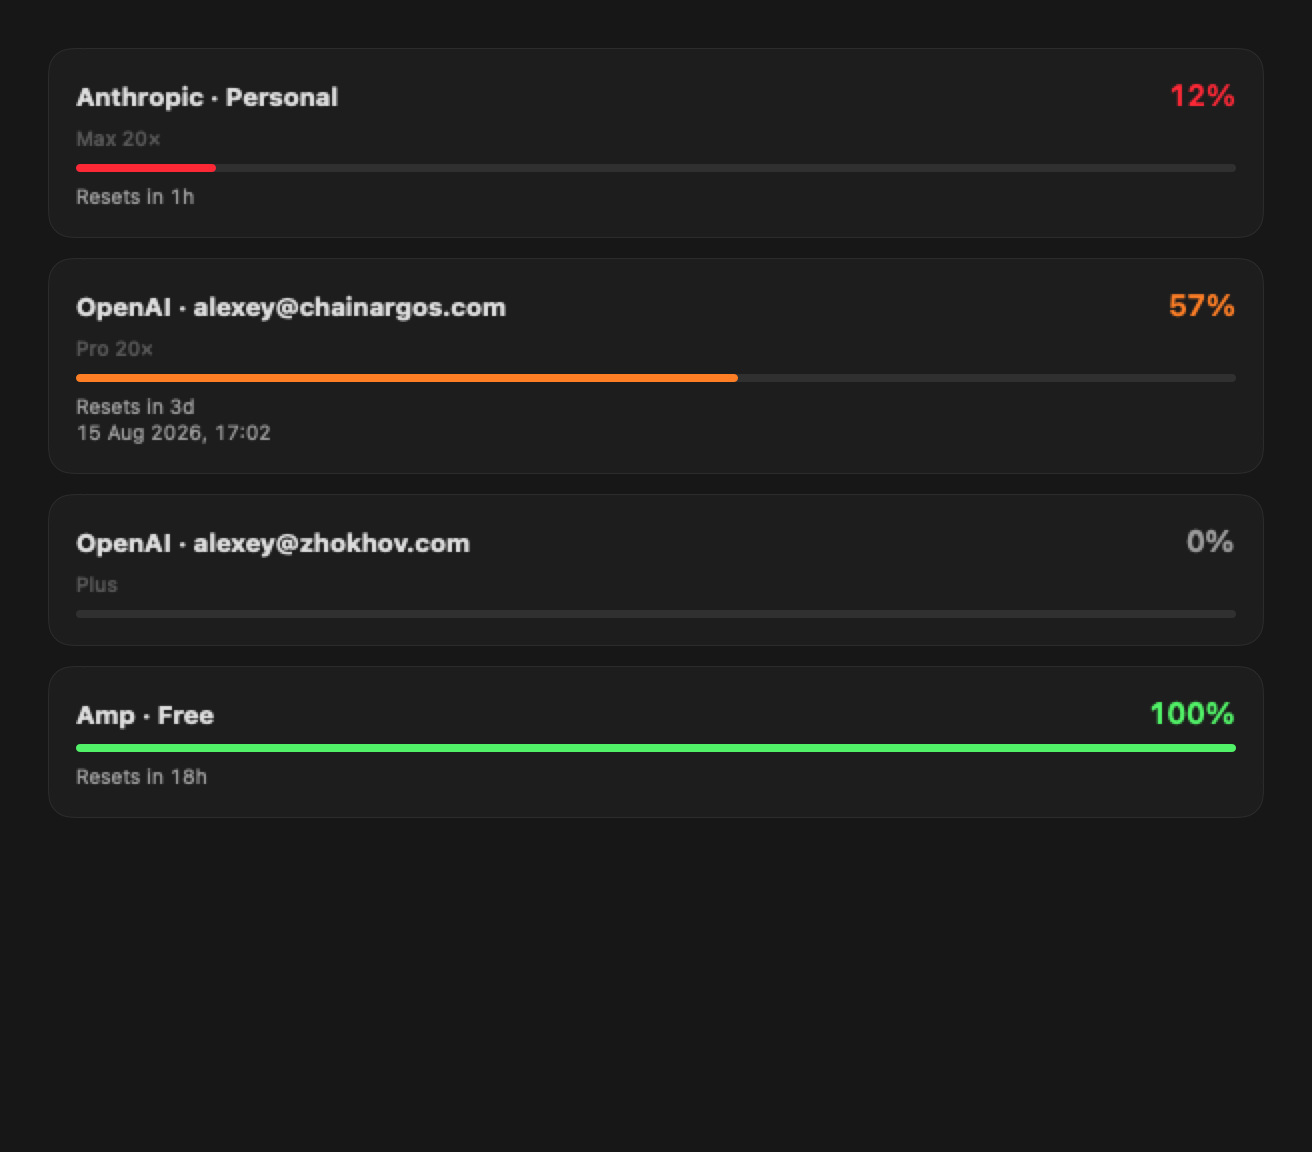
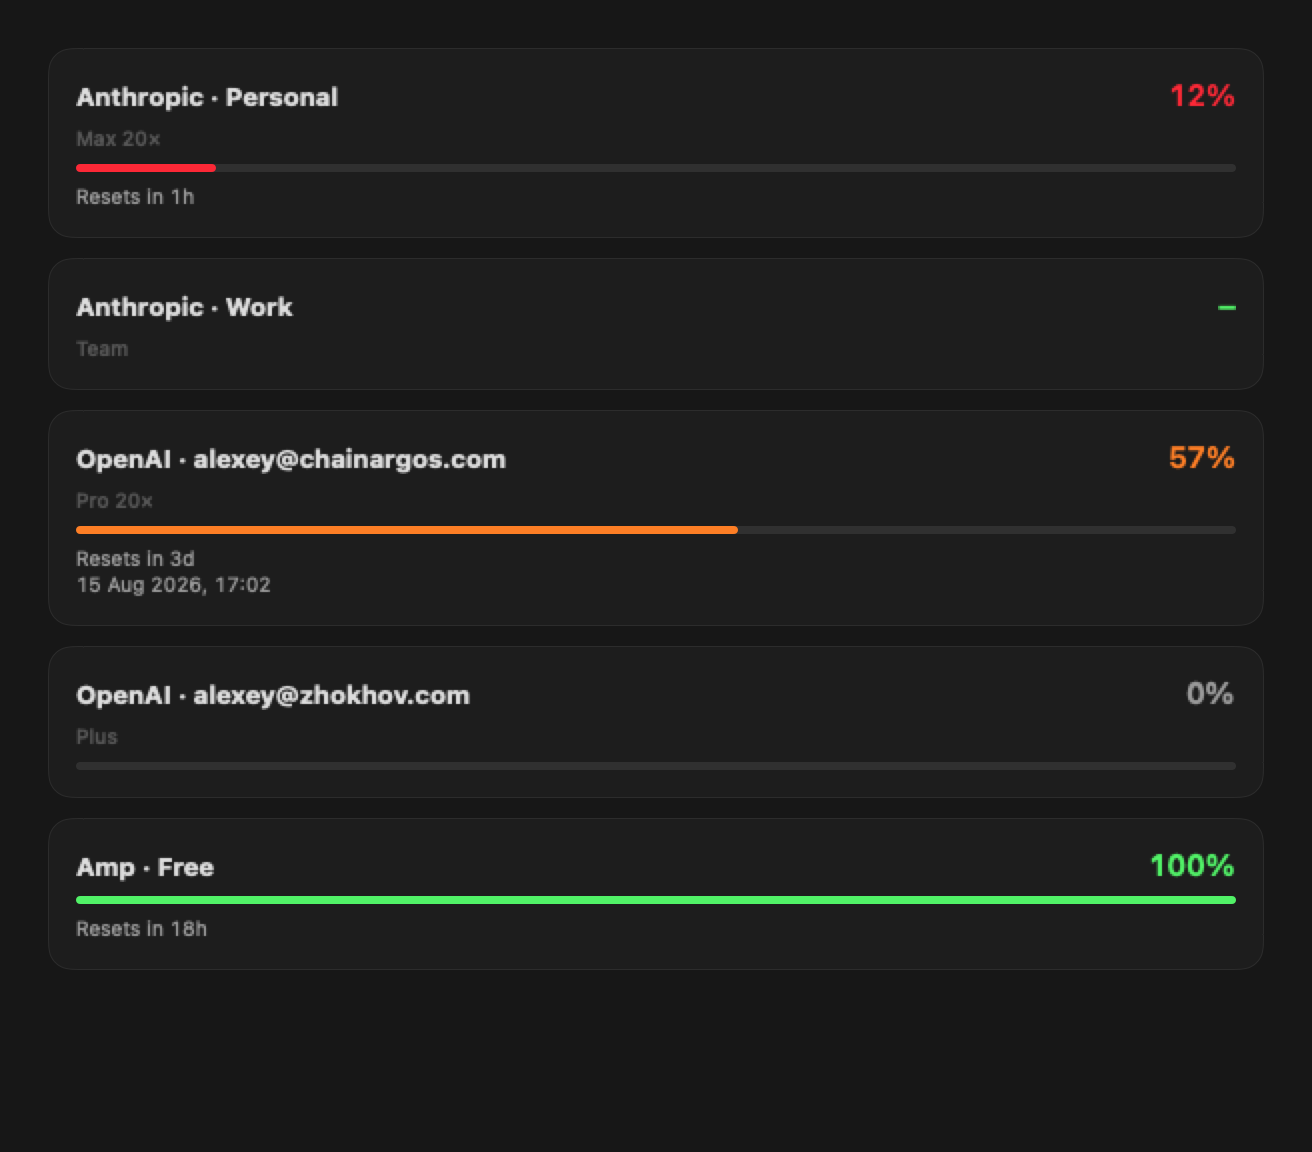
fix(desktop): Anthropic QI multi-limit plate vs HTML SoT
Expand QIFixture anthropicDetail to Session/Weekly/All models/Sonnet/
Fable/Daily/Extra usage + Personal/Work chips. Recapture popover-anthropic
Dark/Light; dual-image density Pass. Closes skeptic High mini-card residual.

diff --git a/native/Tools/DesktopVisualSnapshotHarness/main.swift b/native/Tools/DesktopVisualSnapshotHarness/main.swift
@@ -67,10 +67,11 @@ struct DesktopVisualSnapshotHarness {
             path: "\(out)/popover-openai-dark.png",
             appearance: .darkAqua
         )
+        // Tall plate: Session + Weekly + All models + Sonnet + Fable + Daily + Extra (HTML SoT).
         capturePopover(
             fixture: fixture,
             selection: "claude",
-            size: NSSize(width: 430, height: 900),
+            size: NSSize(width: 430, height: 1400),
             path: "\(out)/popover-anthropic-dark.png",
             appearance: .darkAqua
         )
@@ -178,7 +179,7 @@ struct DesktopVisualSnapshotHarness {
         capturePopover(
             fixture: fixture,
             selection: "claude",
-            size: NSSize(width: 430, height: 900),
+            size: NSSize(width: 430, height: 1400),
             path: "\(out)/popover-anthropic-light.png",
             appearance: .aqua
         )
@@ -951,16 +952,30 @@ private struct QIFixture {
                 severity: "normal" // depleted empty track
             ),
         ]
-        let anthropicAccount = PresentationStore.AccountRow(
-            surfaceId: "claude",
-            accountKey: "p1",
-            accountLabel: "Personal",
-            planLabel: "Max 20×",
-            selected: true,
-            remainingPercent: 12,
-            statusWord: "fresh",
-            severity: "danger" // HTML a-meter low
-        )
+        // HTML SoT: Personal (selected) + Work (secondary chip).
+        let anthropicAccounts = [
+            PresentationStore.AccountRow(
+                surfaceId: "claude",
+                accountKey: "p1",
+                accountLabel: "Personal",
+                planLabel: "Max 20×",
+                selected: true,
+                remainingPercent: 12,
+                statusWord: "fresh",
+                severity: "danger" // HTML a-meter low
+            ),
+            PresentationStore.AccountRow(
+                surfaceId: "claude",
+                accountKey: "w1",
+                accountLabel: "Work",
+                planLabel: "Team",
+                selected: false,
+                remainingPercent: nil,
+                statusWord: "fresh",
+                severity: "normal"
+            ),
+        ]
+        let anthropicAccount = anthropicAccounts[0]
         let ampAccount = PresentationStore.AccountRow(
             surfaceId: "amp",
             accountKey: "free",
@@ -1138,6 +1153,8 @@ private struct QIFixture {
             ),
         ])
 
+        // HTML popover.html Anthropic stack (order fixed by SoT):
+        // Session, Weekly, All models, Sonnet, Fable only, Daily Routines, Extra usage.
         let anthropicDetail = UsageDetailPresentation(rows: [
             bucket(
                 id: "bucket:0",
@@ -1154,8 +1171,60 @@ private struct QIFixture {
                 remaining: "12% left",
                 meter: 12,
                 severity: "danger",
-                pace: "On pace",
+                pace: "52% in reserve",
                 reset: "Resets in 1h"
+            ),
+            bucket(
+                id: "bucket:2",
+                label: "All models",
+                remaining: "28% left",
+                meter: 28,
+                severity: "warn",
+                pace: "Weekly all-models window",
+                reset: "Resets with weekly"
+            ),
+            bucket(
+                id: "bucket:3",
+                label: "Sonnet",
+                remaining: "35% left",
+                meter: 35,
+                severity: "warn",
+                pace: "Model-scoped · paced",
+                reset: "Resets in 6d 12h"
+            ),
+            bucket(
+                id: "bucket:4",
+                label: "Fable only",
+                remaining: "28% left",
+                meter: 28,
+                severity: "warn",
+                pace: nil,
+                reset: "Resets in 12h 19m"
+            ),
+            bucket(
+                id: "bucket:5",
+                label: "Daily Routines",
+                remaining: "100% left",
+                meter: 100,
+                severity: "normal",
+                pace: "No reset timestamp from provider",
+                reset: nil
+            ),
+            // Extra usage: limits-only spend bound (no invent % meter).
+            UsageDetailRow(
+                rowId: "bucket:6",
+                kind: .bucket,
+                label: "Extra usage",
+                layoutLines: [
+                    UsagePresentationLine(leading: "Spend bound", trailing: nil),
+                    UsagePresentationLine(
+                        leading: "Quota-bound money / spend slot (limits only)",
+                        trailing: nil
+                    ),
+                ],
+                displayLabel: "Spend bound · Quota-bound money / spend slot (limits only)",
+                meterPercent: nil,
+                severity: "normal"
             ),
         ])
 
@@ -1216,7 +1285,7 @@ private struct QIFixture {
             anthropicSurface: anthropicSurface,
             openaiAccounts: openaiAccounts,
             anthropicAccount: anthropicAccount,
-            allAccounts: openaiAccounts + [anthropicAccount, ampAccount],
+            allAccounts: openaiAccounts + anthropicAccounts + [ampAccount],
             glanceRows: [anthropicGlance, openaiGlance, ampGlance],
             surfaces: [openaiSurface, anthropicSurface, ampSurface],
             openaiDetail: openaiDetail

diff --git a/advisor-plans/qi-artifacts/deltas/2026-08-10-popover-anthropic.md b/advisor-plans/qi-artifacts/deltas/2026-08-10-popover-anthropic.md
@@ -1,26 +1,43 @@
-# QI delta: popover-anthropic · Dark + Light
+# QI delta: popover-anthropic · Dark + Light (G-P3 multi-limit)
 
-**Date:** 2026-08-10 · **Tip:** `7b760a7e`  
+**Date:** 2026-08-10 · **Tip:** anthropic full multi-limit QI fixture  
 **Oracle HTML:** `html/popover-anthropic-*.png`  
-**Native:** `native/popover-anthropic-*.png` (PopoverRoot + claude fixture)
+**Native:** `native/popover-anthropic-*.png` (PopoverRoot + expanded `anthropicDetail`)
+
+## Fail → Pass trail
+
+| Cycle | High residual | Fix |
+|-------|---------------|-----|
+| Fail | Only Session 74% + Weekly 12% (mini-card) | Expand `QIFixture.anthropicDetail` to HTML stack |
+| Fail | No Personal/Work account chips | `anthropicAccounts` Personal selected + Work |
+| Pass | Full multi-limit plate + dual-image re-read | Recapture height 1400 |
 
 ## Dual-image (this scene only)
 
-| Check | HTML / SoT | Native | Match |
-|-------|------------|--------|-------|
+| Check | HTML SoT | Native | Match |
+|-------|----------|--------|-------|
 | Brand | jackin❯ desktop | same | Yes |
-| Tabs | Overview \| Providers | Providers / Anthropic focus | Yes |
-| Strip selection | Anthropic selected | claude surface selected | Yes |
-| Weekly danger | low remaining red/orange fill | 12% danger-class meter | Yes |
-| Countdown | compact reset | Resets in 1h class fixture | Yes |
-| Limits only | remaining % | no prices/trends | Yes |
+| Tabs / strip | Anthropic selected | same | Yes |
+| Account chips | Personal · Work | Personal 12% · Work | Yes |
+| ACCOUNT meta | Personal · Max 20× · fresh | same | Yes |
+| Session | **74% left** green | same · 12% in deficit · Resets 4h 19m | Yes |
+| Weekly | **12% left** danger red | same · 52% in reserve · Resets 1h | Yes |
+| All models | **28% left** mid | same | Yes |
+| Sonnet | **35% left** mid | same | Yes |
+| Fable only | **28% left** mid | same | Yes |
+| Daily Routines | **100% left** | same · no reset timestamp | Yes |
+| Extra usage | Spend bound (limits only) | same copy · no invent % | Yes |
+| Footer | Open Usage Window | same | Yes |
+| Limits only | no prices | no prices | Yes |
 
 ## Different (not High)
 
 | Severity | Element | Notes |
 |----------|---------|-------|
-| Low | Provider strip count | QI fixture 3 vs HTML many |
-| Low | Extra calendar lines | Native shows Rust segments only |
+| Low | Provider strip count | QI fixture 3 vs HTML 5+ |
+| Low | Credential source line | HTML shows Keychain OAuth; native surface `credentialOrigin` optional |
+| Low | Exact calendar clocks | Native compact Rust segments (“Resets in 6d 12h”) vs HTML wall-clock |
+| Low | Extra usage hero weight | Native promotes first layout line; HTML denser k/v |
 
 ## Verdict
-Verdict: Pass
+**Verdict: Pass** (Dark + Light) — multi-limit density matches popover.html Anthropic stack; no High residual.

diff --git a/advisor-plans/VISUAL_QA_LOG.md b/advisor-plans/VISUAL_QA_LOG.md
@@ -27,7 +27,7 @@ Log: `qi-artifacts/native/desktop-gates.log`
 |-------|------|-------|---------------------|----------|---------|
 | status-desktop | yes | yes | none | html+native/status-desktop-*.png | **Pass** |
 | popover-openai | yes | yes | none | html+native/popover-openai-*.png | **Pass** |
-| popover-anthropic | yes | yes | none | html+native/popover-anthropic-*.png | **Pass** |
+| popover-anthropic | yes | yes | none | full multi-limit plate (74/12/28/35/28/100) · deltas | **Pass** |
 | popover-overview | yes | yes | none | native/popover-overview-*.png | **Pass** |
 | usage-overview | yes | yes | none | html+native/usage-overview-*.png | **Pass** |
 | usage-provider-nest | yes | yes | none | nest 57%/0% | **Pass** |
